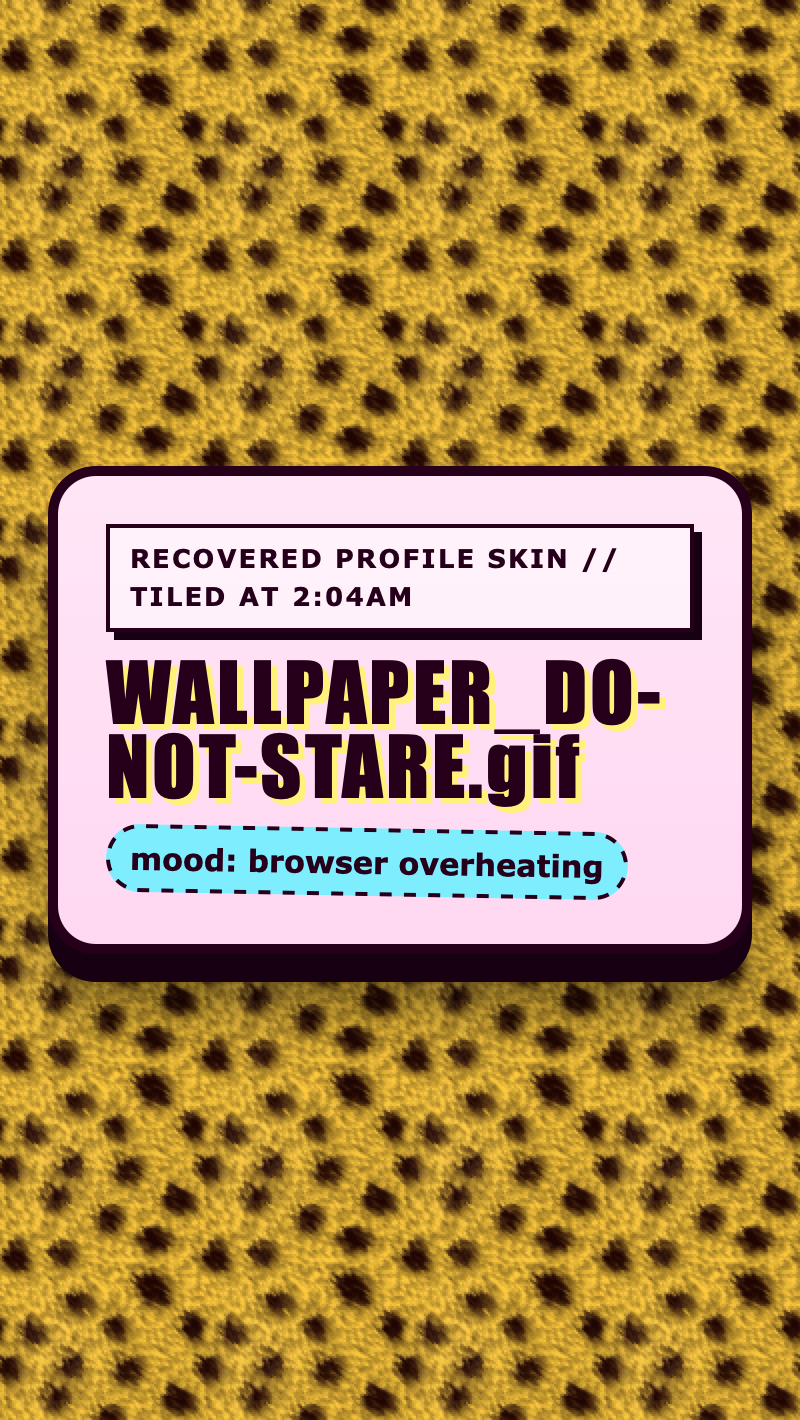
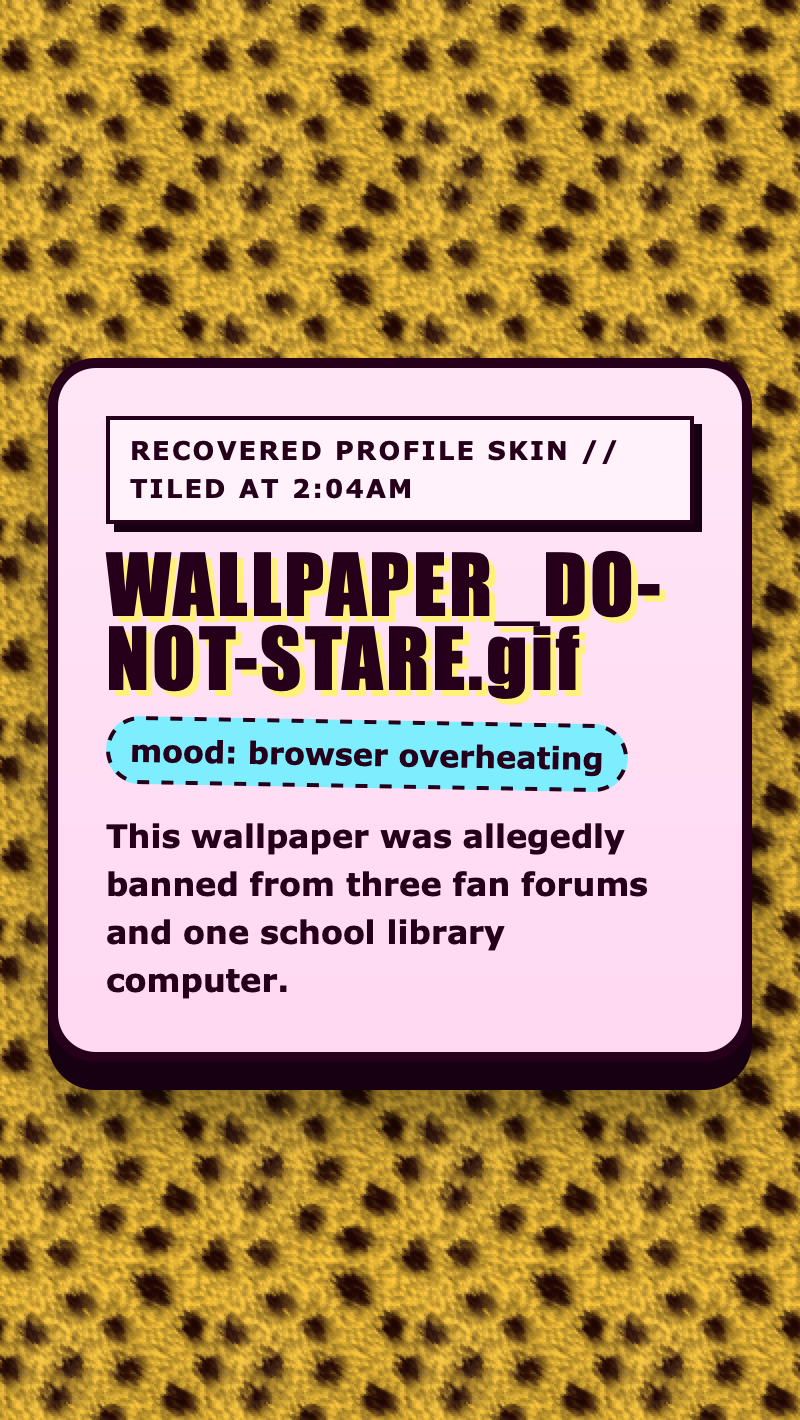
Update step instructions and enhance styling for clarity and engagement

diff --git a/en/step_5.md b/en/step_5.md
@@ -1,35 +1,90 @@
-<h2 class="c-project-heading--task">Add the final rumour</h2>
+<h2 class="c-project-heading--task">Challenge: corrupt the colours even more</h2>
 
-Add one more paragraph inside the note panel so the wallpaper gets its dramatic warning message.
+Mess with the colours in the CSS classes so the warning note feels even more cursed and personal.
 
 <h2 class="c-project-heading--explainer">Make this change</h2>
 
-Put the new paragraph underneath `<p class="status">`.
+Open `style.css` and change the colour values inside `.pattern-note`, `.eyebrow`, and `.status`. Try swapping the panel background, the eyebrow background, the status background, the border colours, or the `text-shadow` colour on `h1`.
 
 <div class="c-project-code">
 
 --- code ---
 ---
-language: html
-filename: index.html
+language: css
+filename: style.css
 line_numbers: true
-line_number_start: 10
-line_highlights: 14
+line_number_start: 18
+line_highlights: 24-26,34,47,54
 ---
-    <main class="pattern-note">
-      <p class="eyebrow">Recovered profile skin // tiled at 2:04am</p>
-      <h1>WALLPAPER_DO-NOT-STARE.gif</h1>
-      <p class="status">mood: browser overheating</p>
-      <p>This wallpaper was allegedly banned from three fan forums and one school library computer.</p>
-    </main>
+.pattern-note {
+  position: relative;
+  z-index: 1;
+  width: min(34rem, calc(100vw - 48px));
+  padding: 24px;
+  border: 5px solid #26001b;
+  border-radius: 24px;
+  background:
+    linear-gradient(rgba(255, 255, 255, 0.35), rgba(255, 255, 255, 0)),
+    #ffd8f2;
+  box-shadow:
+    0 14px 0 #170011,
+    0 28px 34px rgba(0, 0, 0, 0.42);
+}
+
+.eyebrow {
+  margin: 0;
+  display: inline-block;
+  padding: 6px 10px;
+  border: 2px solid #26001b;
+  background: rgba(255, 255, 255, 0.52);
+  box-shadow: 4px 4px 0 #170011;
+  font-size: 0.8rem;
+  font-weight: 900;
+  text-transform: uppercase;
+  letter-spacing: 0.09em;
+}
+
+h1 {
+  margin: 12px 0 0;
+  font-family: Impact, Haettenschweiler, "Arial Narrow Bold", sans-serif;
+  font-size: clamp(2.5rem, 9vw, 4rem);
+  line-height: 0.94;
+  letter-spacing: 0.04em;
+  overflow-wrap: anywhere;
+  text-shadow: 3px 3px 0 #fff17a;
+}
+
+.status {
+  display: inline-block;
+  margin: 12px 0 0;
+  padding: 4px 10px;
+  border: 2px dashed #26001b;
+  border-radius: 999px;
+  background: #7eeeff;
+  font-size: 0.95rem;
+  font-weight: 700;
+  transform: rotate(1deg);
+}
 --- /code ---
+
+</div>
+
+<div class="c-project-tip">
+
+<h3>Tip</h3>
+
+<p>Try making the note look more sugary, more radioactive, or more fake-dangerous.</p>
+
+<p>Clashing colours usually look better here than neat matching ones.</p>
+
+<p><a href="https://www.google.com/search?q=web+colour+picker" target="_blank" rel="noopener noreferrer">Open the Google web colour picker in a new tab</a> if you want help choosing colours.</p>
 
 </div>
 
 ## Now run your code
 
-You should now see the full warning note on top of the tight tiled wallpaper.
+If you change the colours in these classes, the warning note should feel much more like your own horrible profile skin.
 
 <div class="c-project-output">
-  <img src="images/step_5_output.png" alt="Expected project output after step 5 showing the full warning note on top of the tight tiled wallpaper.">
+  <img src="images/step_5_output.png" alt="Expected project output after step 5 showing one possible version of the warning note with loud customised colours.">
 </div>

diff --git a/en/step_4.md b/en/step_4.md
@@ -1,10 +1,10 @@
-<h2 class="c-project-heading--task">Add the warning note header</h2>
+<h2 class="c-project-heading--task">Add the warning note</h2>
 
-Add the visible note panel on top of the wallpaper so the page looks like a dramatic profile warning instead of just endless leopard print.
+Add the visible note panel and its warning text on top of the wallpaper so the page looks like a dramatic profile warning instead of just endless leopard print.
 
 <h2 class="c-project-heading--explainer">Make this change</h2>
 
-Go back to `index.html` and put this `<main class="pattern-note">` section inside `<body>`.
+Go back to `index.html` and put this full `<main class="pattern-note">` section inside `<body>`.
 
 <div class="c-project-code">
 
@@ -13,13 +13,15 @@ Go back to `index.html` and put this `<main class="pattern-note">` section insid
 language: html
 filename: index.html
 line_numbers: true
-line_number_start: 9
-line_highlights: 10-13
+line_number_start: 8
+line_highlights: 9-14
 ---
+  <body>
     <main class="pattern-note">
       <p class="eyebrow">Recovered profile skin // tiled at 2:04am</p>
       <h1>WALLPAPER_DO-NOT-STARE.gif</h1>
       <p class="status">mood: browser overheating</p>
+      <p>This wallpaper was allegedly banned from three fan forums and one school library computer.</p>
     </main>
   </body>
 --- /code ---
@@ -28,8 +30,8 @@ line_highlights: 10-13
 
 ## Now run your code
 
-You should now see the warning note header centered on top of the tightly tiled wallpaper.
+You should now see the full warning note centered on top of the tightly tiled wallpaper.
 
 <div class="c-project-output">
-  <img src="images/step_4_output.png" alt="Expected project output after step 4 showing the warning note header centered over the tight tiled wallpaper.">
+  <img src="images/step_4_output.png" alt="Expected project output after step 4 showing the full warning note centered over the tight tiled wallpaper.">
 </div>

diff --git a/en/step_1.md b/en/step_1.md
@@ -14,7 +14,7 @@ language: css
 filename: style.css
 line_numbers: true
 line_number_start: 6
-line_highlights: 12-15
+line_highlights: 14-17
 ---
 body {
   margin: 0;

diff --git a/en/step_2.md b/en/step_2.md
@@ -14,7 +14,7 @@ language: css
 filename: style.css
 line_numbers: true
 line_number_start: 12
-line_highlights: 14
+line_highlights: 15
 ---
   background-color: #19001d;
   background-image: url("leopard.gif");

diff --git a/en/step_3.md b/en/step_3.md
@@ -14,7 +14,7 @@ language: css
 filename: style.css
 line_numbers: true
 line_number_start: 12
-line_highlights: 16
+line_highlights: 17
 ---
   background-color: #19001d;
   background-image: url("leopard.gif");